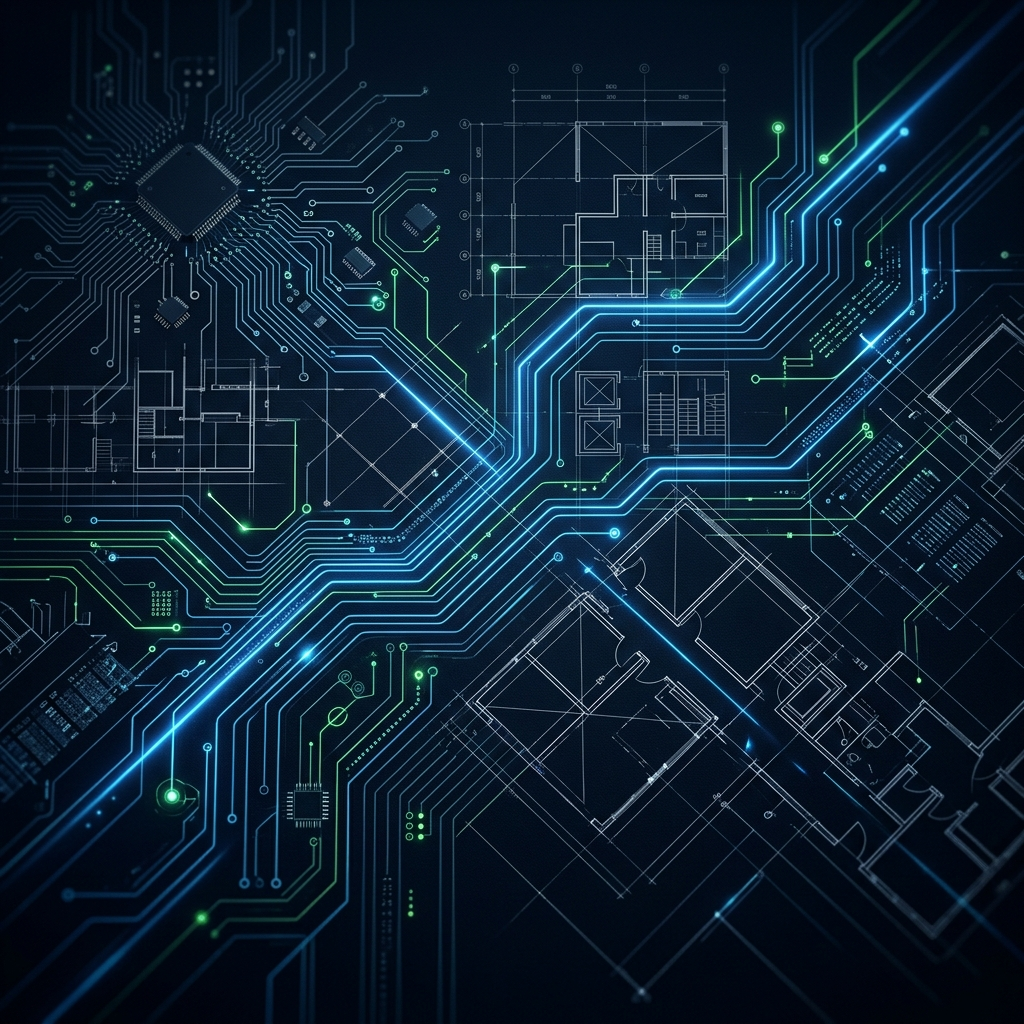
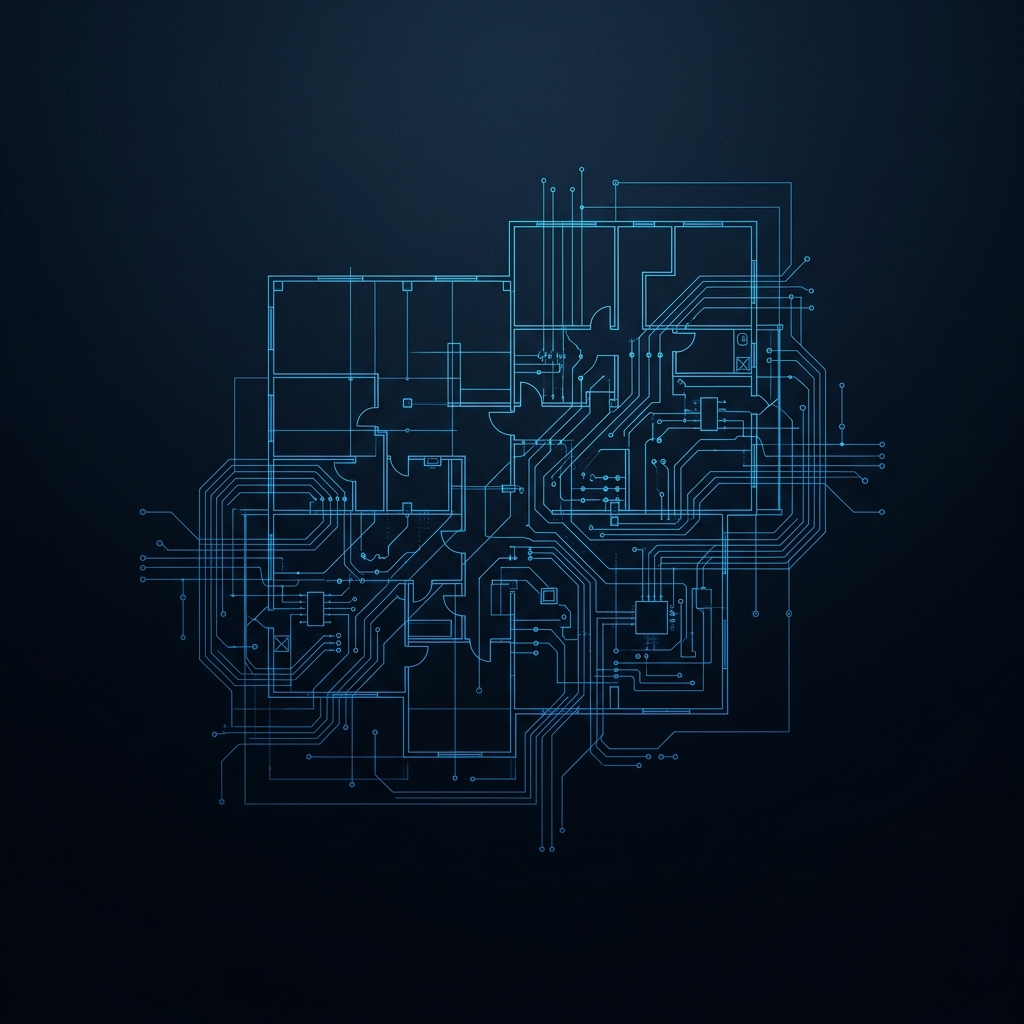
style: replace hero background with ultra-minimalist refined version and remove zoom

diff --git a/src/components/Hero.module.css b/src/components/Hero.module.css
@@ -18,8 +18,7 @@
 
 .heroBg {
   object-fit: cover;
-  transform: scale(1.1);
-  filter: brightness(0.6);
+  filter: brightness(0.5);
 }
 
 .overlay {
